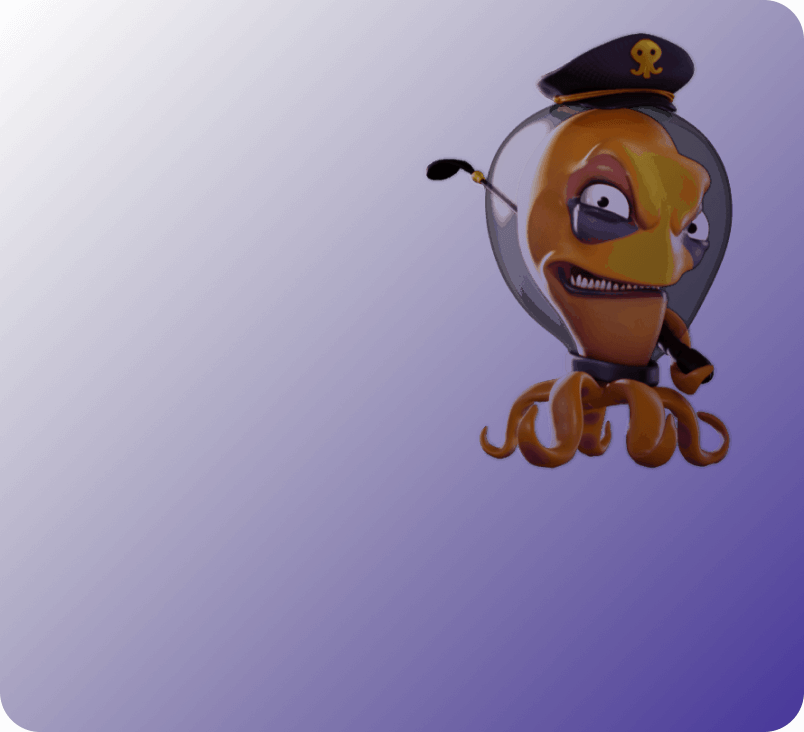
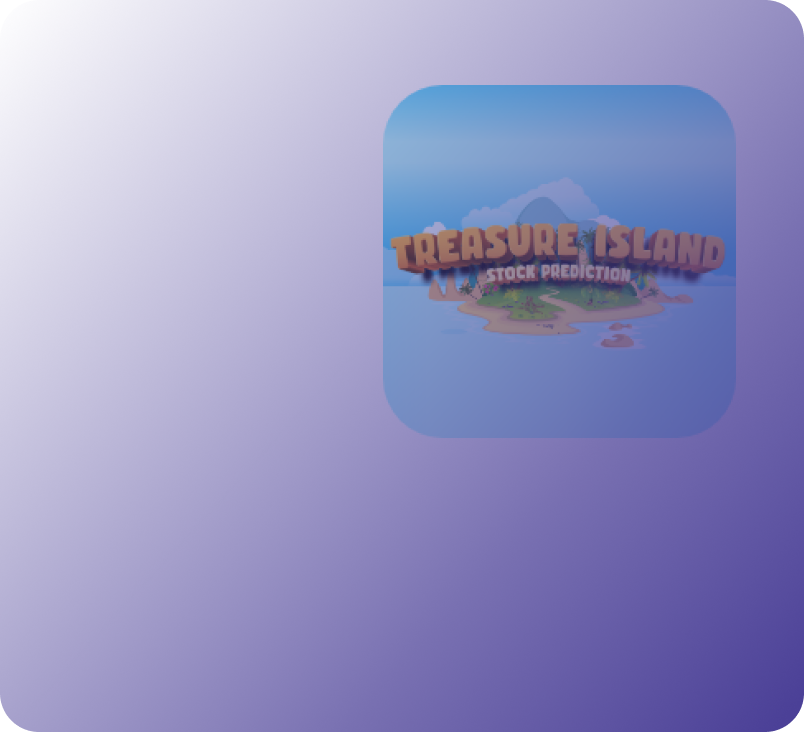
change game thumbnails, names, descriptions on games page

Changed region(s): [[0.4664, 0.0301, 0.9328, 0.6612], [0.995, 0.0301, 1.0, 0.0601]]

diff --git a/src/constants/Games.js b/src/constants/Games.js
@@ -47,9 +47,9 @@ export const CASINO_GAMES = [
   },
   {
     background: First,
-    title: 'Satoshi the Kid',
+    title: 'Midas Trader',
     subtitle: '',
-    description: '',
+    description: 'Market 1X2 – you know where the prices are going? Prove it!',
     active: false,
     linkTo: '',
   },
@@ -58,33 +58,36 @@ export const CASINO_GAMES = [
 export const SLOTS_GAMES = [
   {
     background: Second,
-    title: 'Dice',
+    title: 'Treasure Island',
     subtitle: '',
-    description: '',
+    description: 'Market top and flop jackpot tournament',
     active: false,
     linkTo: '',
   },
   {
     background: Third,
-    title: 'Mines',
+    title: 'Market Runner',
     subtitle: '',
-    description: '',
+    description:
+      'Jump and run on each price tick, are you heading north, south or staying put?',
     active: false,
     linkTo: '',
   },
   {
     background: Fourth,
-    title: 'Hi Lo',
+    title: 'Financial Poker',
     subtitle: '',
-    description: '',
+    description:
+      'Bring your poker face and portfolio management skills to live financial poker',
     active: false,
     linkTo: '',
   },
   {
-    background: Fourth,
-    title: 'Coin Flip',
+    background: Fifth,
+    title: 'Candle Stick',
     subtitle: '',
-    description: '',
+    description:
+      'Game and learn candlestick trading strategy in this jackpot tournament',
     active: false,
     linkTo: '',
   },

diff --git a/src/components/GameCards/index.js b/src/components/GameCards/index.js
@@ -76,7 +76,9 @@ const GameCards = ({ games, category, showHowtoLink, showPopup }) => {
                 >
                   <img src={game.background} />
                   <div className={styles.gameInfo}>
-                    <div className={styles.subtitle}>{game.subtitle}</div>
+                    {game.subtitle && (
+                      <div className={styles.subtitle}>{game.subtitle}</div>
+                    )}
                     <div className={styles.title}>{game.title}</div>
                     <div className={styles.description}>{game.description}</div>
                   </div>

diff --git a/src/components/GameCards/styles.module.scss b/src/components/GameCards/styles.module.scss
@@ -85,12 +85,12 @@
     .gameItem {
       height: 100%;
 
-      &.inactive {
-        img,
-        .gameInfo {
-          filter: opacity(0.4);
-        }
-      }
+      // &.inactive {
+      //   img,
+      //   .gameInfo {
+      //     filter: opacity(0.4);
+      //   }
+      // }
 
       &.gameItemLg {
         .gameInfo {
@@ -188,6 +188,7 @@
         .description {
           font-size: 16px;
           opacity: 0.7;
+          min-height: 60px;
         }
       }
 

diff --git a/src/screens/Games/index.js b/src/screens/Games/index.js
@@ -18,7 +18,6 @@ const Games = () => {
           showHowtoLink={true}
         />
         <GameCards games={SLOTS_GAMES} category="House Games" />
-        <GameCards games={SPORTS_BETTING_GAMES} category="Sports" />
         <ContentFooter />
       </div>
     </BaseContainerWithNavbar>
